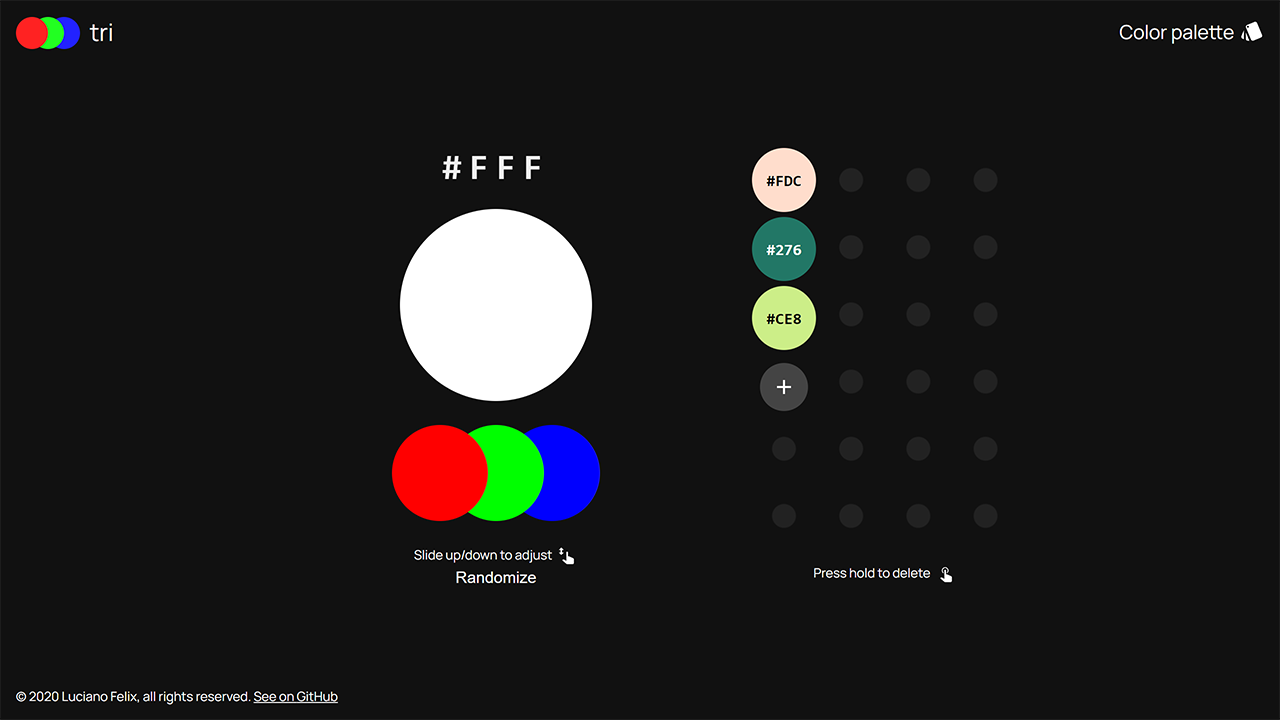
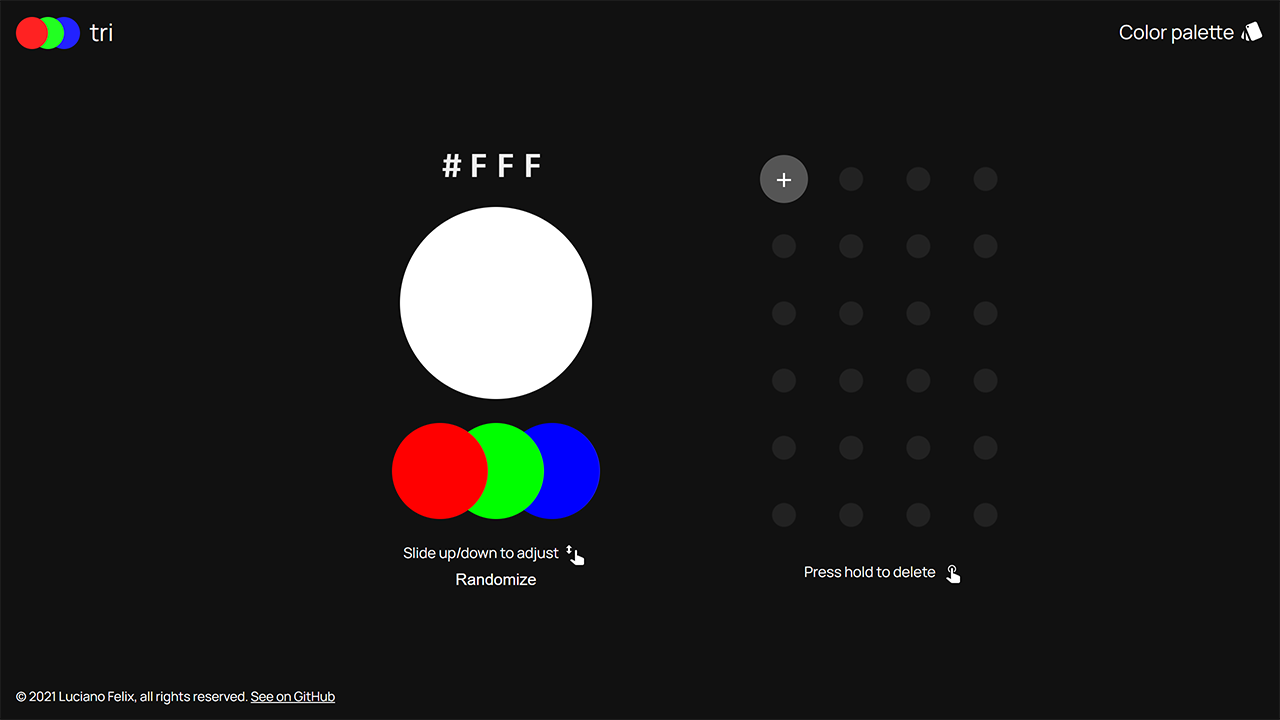
Readme, Touch press, Slider & Fine styling

diff --git a/index.html b/index.html
@@ -64,7 +64,7 @@
           :v-model="0"
           :min="-15"
           :max="15"
-          :step="2"
+          :step="1"
           :style="display"
           title="Adjust brightness"
           @offset="adjustLight"
@@ -84,10 +84,8 @@
         </div>
 
         <div class="mixer-info-wraper">
-          <p>
-            <em class="text-small">
-              Slide up/down to adjust
-            </em>
+          <p class="text-small">
+            Slide up/down to adjust
             <svg class="inline-icon" viewBox="0 0 24 24">
               <path d="M4,3L1,6H3V9H1L4,12L7,9H5V6H7L4,3M11,8A1,1 0 0,0 10,9V19L6.8,17.28H6.58C6.3,17.28 6.03,17.39 5.84,17.6L5.1,18.37L10,22.57C10.26,22.85 10.62,23 11,23H17.5A1.5,1.5 0 0,0 19,21.5V17.14C19,16.56 18.68,16.03 18.15,15.79L13.21,13.6L12,13.47V9A1,1 0 0,0 11,8Z"/>
             </svg>
@@ -120,10 +118,8 @@
         </div>
         
         <div class="collection-content-info">
-          <p>
-            <em class="text-small">
-              Press hold to delete
-            </em>
+          <p class="text-small">
+            Press hold to delete
             <svg class="inline-icon" viewBox="0 0 24 24">
               <path d="M10,9A1,1 0 0,1 11,8A1,1 0 0,1 12,9V13.47L13.21,13.6L18.15,15.79C18.68,16.03 19,16.56 19,17.14V21.5C18.97,22.32 18.32,22.97 17.5,23H11C10.62,23 10.26,22.85 10,22.57L5.1,18.37L5.84,17.6C6.03,17.39 6.3,17.28 6.58,17.28H6.8L10,19V9M11,5A4,4 0 0,1 15,9C15,10.5 14.2,11.77 13,12.46V11.24C13.61,10.69 14,9.89 14,9A3,3 0 0,0 11,6A3,3 0 0,0 8,9C8,9.89 8.39,10.69 9,11.24V12.46C7.8,11.77 7,10.5 7,9A4,4 0 0,1 11,5Z"/>
             </svg>
@@ -135,7 +131,7 @@
   </main>
 
   <footer>
-    &copy; 2020 Luciano Felix<span class="hide-small">, all rights reserved</span>.
+    &copy; 2021 Luciano Felix<span class="hide-small">, all rights reserved</span>.
 
     <a href="https://github.com/FelixLuciano/tri#readme" target="_blank" rel="noopener">
       <span class="hide-small">See on </span>GitHub

diff --git a/js/app.js b/js/app.js
@@ -64,21 +64,27 @@ const tri_app = {
       const release = (event2) => {
         event.preventDefault()
         event2.preventDefault()
+
         clearTimeout(hold)
         if (doHold) storage.remove(index)
         else {
           open(index)
           scrollHome()
         }
+
+        window.removeEventListener("mouseup", release)
+        window.removeEventListener("touchend", release)
+        window.removeEventListener("touchmove", onTouchMove)
+      }
+
+      const onTouchMove = () => {
+        window.removeEventListener("touchend", release)
+        window.removeEventListener("mouseup", release)
       }
 
       window.addEventListener("mouseup", release, { once: true })
       window.addEventListener("touchend", release, { once: true })
-
-      window.addEventListener("touchmove", () => {
-        window.removeEventListener("touchend", release)
-        window.removeEventListener("mouseup", release)
-      }, { once: true })
+      window.addEventListener("touchmove", onTouchMove, { once: true })
     }
 
     return {

diff --git a/css/style.css b/css/style.css
@@ -22,13 +22,14 @@ button {
 /* Helpers */
 
 .text-small {
-  font-size: .8em;
+  font-size: .9em;
 }
 
 .inline-icon {
-  width: 1.25em;
-  height: 1.25em;
+  width: 1.66em;
+  height: 1.66em;
   margin-left: .2em;
+  margin-top: -.1em;
   fill: currentcolor;
   vertical-align: middle;
 }
@@ -135,7 +136,15 @@ main {
   height: 3rem;
   margin: .5rem;
   background-color: #444;
-  border: none;
+  border: 1px solid transparent;
+  transition: background-color 128ms, border-color 128ms;
+}
+.collection-content-add:hover {
+  background-color: #555;
+}
+.collection-content-add:active {
+  background-color: #333;
+  border-color: #555;
 }
 .collection-content-add svg {
   width: 1.5rem;

diff --git a/palette/index.html b/palette/index.html
@@ -324,7 +324,7 @@
   </main>
 
   <footer>
-    &copy; 2020 Luciano Felix<span class="hide-small">, all rights reserved</span>.
+    &copy; 2021 Luciano Felix<span class="hide-small">, all rights reserved</span>.
 
     <a href="https://github.com/FelixLuciano/tri#readme" target="_blank" rel="noopener">
       <span class="hide-small">See on </span>GitHub

diff --git a/README.md b/README.md
@@ -1,14 +1,28 @@
-![tri](assets/banner.svg)
+![tri](assets/images/banner.svg)
 
 
-### INTRODUCTION
+## Introduction
 
-**tri** is a 3 hexadecimal characters color system.
+**tri** is a three characters hexadecimal color system.
 
-### APP
+## The app
 
-![tri app](assets/app.svg)
+### Desktop
 
-### COLOR PALETTE
+![tri app](assets/screenshots/app-desktop.webp)
 
-![Color palette](assets/palette.svg)
+![tri app](assets/screenshots/palette-desktop.webp)
+
+### Mobile
+
+![tri app](assets/screenshots/app-mobile.webp)
+
+![tri app](assets/screenshots/palette-mobile.webp)
+
+## Color palette
+
+![Color palette](assets/images/palette.svg)
+
+[LICENSE](https://github.com/FelixLuciano/tri/blob/master/LICENSE)
+
+Copyright © 2020 Luciano Felix
